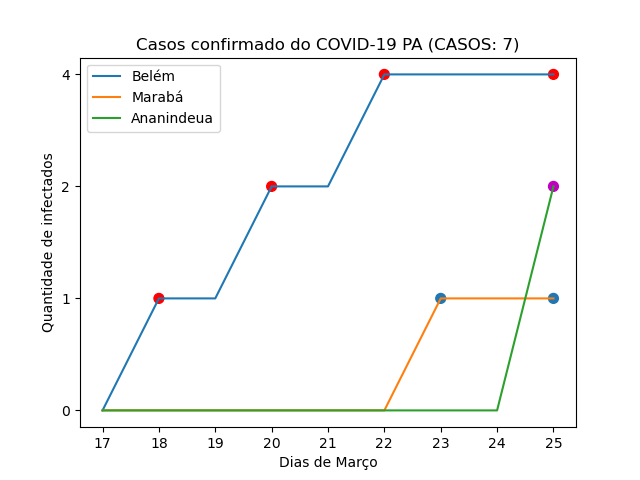
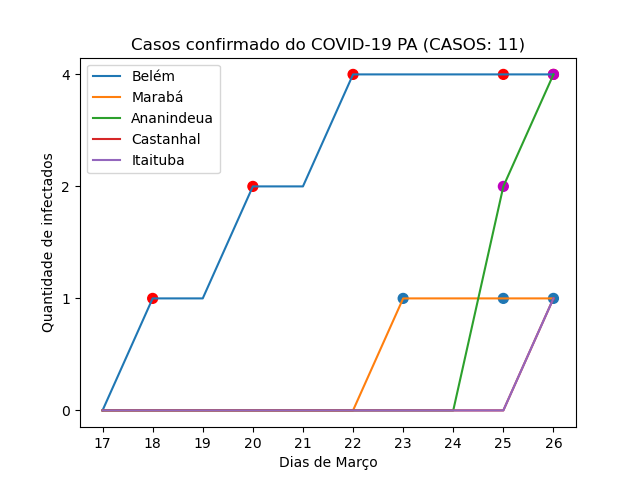
Atualização mais nova

diff --git a/Analise.py b/Analise.py
@@ -3,21 +3,30 @@
 import matplotlib.pyplot as plt
 
 ##Belém
-x = ["17","18","19","20","21","22","23","24","25"]
-y = ["0","1","1","2","2","4","4","4","4"]
-tamanhoB = [0,50,0,50,0,50,0,0,50]
+x = ["17","18","19","20","21","22","23","24","25","26"]
+y = ["0","1","1","2","2","4","4","4","4","4"]
+tamanhoB = [0,50,0,50,0,50,0,0,50,50]
 
 ##Marabá
-x2 = ["17","18","19","20","21","22","23","24","25"]
-y2 =["0","0","0","0","0","0","1","1","1"]
-tamanhoM = [0,0,0,0,0,0,50,0,50]
+x2 = ["17","18","19","20","21","22","23","24","25","26"]
+y2 =["0","0","0","0","0","0","1","1","1","1"]
+tamanhoM = [0,0,0,0,0,0,50,0,50,50]
 
 ##Ananindeua
-x3 = ["17","18","19","20","21","22","23","24","25"]
-y3 = ["0","0","0","0","0","0","0","0","2"]
-tamanhoA = [0,0,0,0,0,0,0,0,50]
+x3 = ["17","18","19","20","21","22","23","24","25","26"]
+y3 = ["0","0","0","0","0","0","0","0","2","4"]
+tamanhoA = [0,0,0,0,0,0,0,0,50,50]
+
+##Castanhal
+x4 = ["17","18","19","20","21","22","23","24","25","26"]
+y4 =["0","0","0","0","0","0","0","0","0","1"]
+tamanhoC = [0,0,0,0,0,0,0,0,0,50]
+##Itaituba
+x5 = ["17","18","19","20","21","22","23","24","25","26"]
+y5 =["0","0","0","0","0","0","0","0","0","1"]
+tamanhoI = [0,0,0,0,0,0,0,0,0,50]
 ##Legendas do grafico
-titulo ="Casos confirmado do COVID-19 PA (CASOS: 7)"
+titulo ="Casos confirmado do COVID-19 PA (CASOS: 11)"
 Labx = "Dias de Março"
 laby = "Quantidade de infectados"
 
@@ -29,6 +38,11 @@ plt.plot(x,y, label = "Belém")
 plt.plot(x2,y2, label = "Marabá")
 ##Criando grafico de linha Ananindeua
 plt.plot(x3,y3, label = "Ananindeua")
+##Criando grafico de linha Castanhal
+plt.plot(x4,y4, label = "Castanhal")
+##Criando grafico de linha Itaituba
+plt.plot(x5,y5, label = "Itaituba")
+
 
 ##Pontos no grafico
 plt.scatter(x,y, color = "r", s= tamanhoB)
